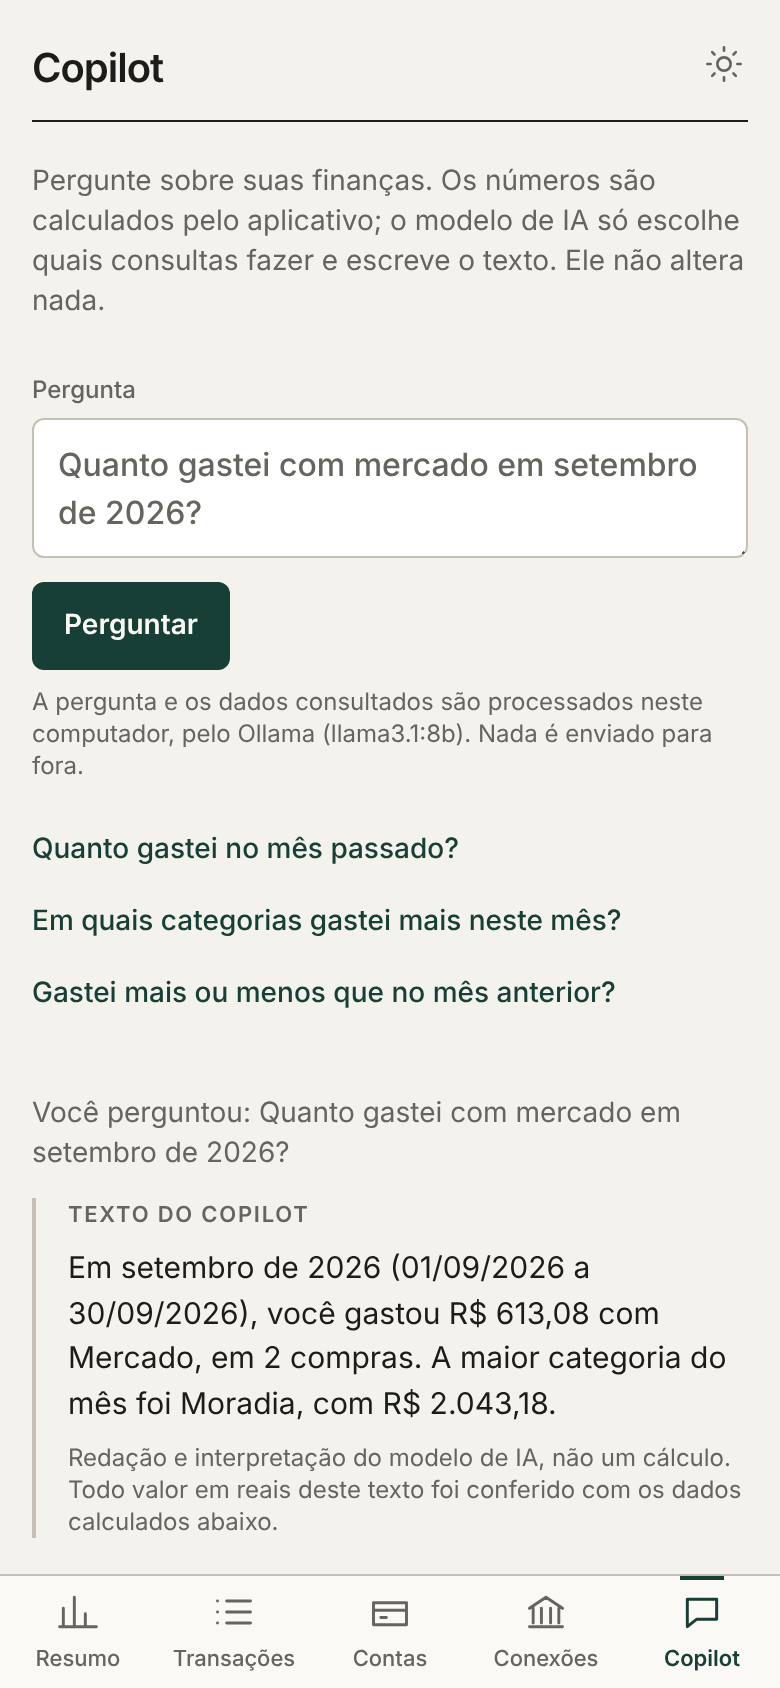
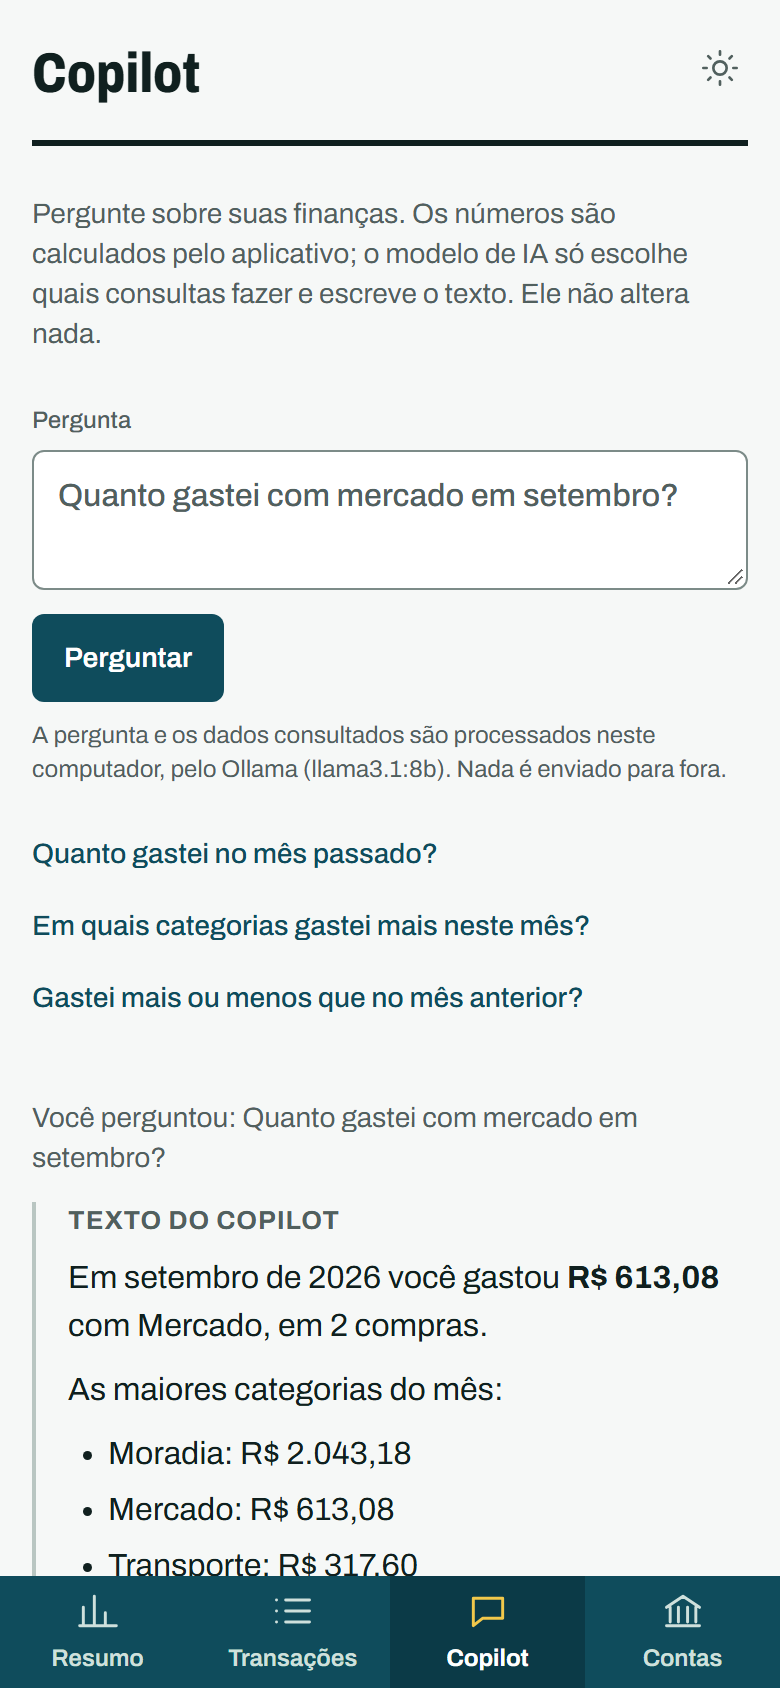
docs: refresh the README, guides and screenshots for the new interface
Screenshots are regenerated at 2x from simulated data and now include
the floating chat. The verification guide covers the month stepper, the
category list and the chat.

diff --git a/README.md b/README.md
@@ -18,7 +18,7 @@
 ![Tailwind CSS](https://img.shields.io/badge/Tailwind_CSS-06B6D4?logo=tailwindcss&logoColor=white)
 ![Ollama](https://img.shields.io/badge/Ollama-local-000000?logo=ollama&logoColor=white)
 
-<img src="docs/screenshots/hero.png" alt="Painel de resumo no desktop e a tela do Copilot no celular" width="100%">
+<img src="docs/screenshots/hero.png" alt="Resumo no desktop e o chat do Copilot no celular" width="100%">
 
 </div>
 
@@ -35,41 +35,42 @@ A decisão central do projeto é que **o modelo de linguagem nunca calcula dinhe
 | Área | O que faz |
 | --- | --- |
 | 🏦 **Open Finance** | Conexão pelo widget Pluggy Connect (conta MeuPluggy), importação paginada de contas e transações, deduplicação por id externo e histórico de sincronizações com falhas classificadas. |
-| 📊 **Resumo** | Gastos, receitas e gastos por categoria em qualquer período, comparação com o período anterior equivalente e projeção do gasto até o fim do mês. |
-| 🔎 **Transações** | Lista paginada com busca por descrição ou estabelecimento e filtros por conta, categoria e tipo. O período e os filtros ficam na URL. |
+| 📊 **Resumo** | Gasto do mês com a procedência do cálculo, receitas, categorias comparadas com o período anterior na mesma escala, observações por regras fixas e projeção do gasto até o fim do mês. A navegação é mês a mês, com outros intervalos a um clique. |
+| 🔎 **Transações** | Lista paginada com busca por descrição ou estabelecimento e filtros por conta, categoria e tipo. O período e os filtros ficam na URL, e cada categoria do Resumo leva à lista já filtrada. |
 | 🧾 **Contas** | Visão consolidada por instituição, com estado da última sincronização e contagem de transações. |
 | 💬 **Copilot** | Perguntas em linguagem natural, respostas com o período considerado, a fonte de cada cálculo e links para as transações que sustentam a resposta. |
+| 🦆 **Chat flutuante** | O pato no canto inferior direito abre a conversa com o Copilot em qualquer tela, usando o mesmo backend da tela Copilot. A conversa fica só na memória do navegador: continua ao trocar de tela e some ao recarregar a página. |
 | 💡 **Insights e auditoria** | Insights por regras fixas (sem LLM) e um relatório de qualidade dos dados, somente leitura, que aponta duplicatas, lacunas de sincronização e valores suspeitos. |
 | 🌓 **Web e PWA** | Interface responsiva com tema claro e escuro, instalável no iPhone pela tela de início. |
 
 ## Telas
 
-Todas as telas abaixo usam o dataset de demonstração, que tem dados fictícios.
+Todas as telas abaixo usam dados fictícios, servidos por uma API simulada só para as capturas.
 
 <table>
   <tr>
-    <td width="50%"><img src="docs/screenshots/dashboard-desktop.png" alt="Resumo do mês com gastos por categoria e comparação com o período anterior"><br><sub><b>Resumo</b>: gastos por categoria e comparação com o mês anterior</sub></td>
-    <td width="50%"><img src="docs/screenshots/copilot-desktop.png" alt="Copilot respondendo uma pergunta com os dados calculados abaixo"><br><sub><b>Copilot</b>: texto do modelo separado dos dados calculados pelo app</sub></td>
+    <td width="50%"><img src="docs/screenshots/dashboard-desktop.png" alt="Resumo do mês: gasto total, totais comparados, gastos por categoria e últimas transações"><br><sub><b>Resumo</b>: gasto do mês com a procedência do cálculo, categorias comparadas com o mês anterior na mesma escala</sub></td>
+    <td width="50%"><img src="docs/screenshots/chat-desktop.png" alt="Chat flutuante do Copilot aberto sobre o Resumo, com uma resposta e os dados calculados"><br><sub><b>Chat flutuante</b>: o pato abre a conversa com o Copilot em qualquer tela</sub></td>
   </tr>
   <tr>
-    <td><img src="docs/screenshots/transactions-desktop.png" alt="Lista de transações com busca e filtros"><br><sub><b>Transações</b>: busca, filtros e paginação</sub></td>
+    <td><img src="docs/screenshots/copilot-desktop.png" alt="Tela do Copilot com o texto do modelo separado dos dados calculados"><br><sub><b>Copilot</b>: texto do modelo separado dos dados calculados pelo app</sub></td>
+    <td><img src="docs/screenshots/transactions-desktop.png" alt="Lista de transações com navegação por mês, busca e filtros"><br><sub><b>Transações</b>: navegação por mês, busca, filtros e paginação</sub></td>
+  </tr>
+  <tr>
     <td><img src="docs/screenshots/transaction-detail-desktop.png" alt="Detalhe de uma transação"><br><sub><b>Detalhe</b>: cada transação tem rota própria</sub></td>
-  </tr>
-  <tr>
     <td><img src="docs/screenshots/accounts-desktop.png" alt="Contas agrupadas por instituição"><br><sub><b>Contas</b>: agrupadas por instituição</sub></td>
-    <td><img src="docs/screenshots/connections-desktop.png" alt="Tela de conexões Open Finance"><br><sub><b>Conexões</b>: conectar instituição e sincronizar de novo</sub></td>
   </tr>
   <tr>
+    <td><img src="docs/screenshots/connections-desktop.png" alt="Conexão e sincronização com o Open Finance"><br><sub><b>Conexão e sincronização</b>: conectar instituição e sincronizar de novo</sub></td>
     <td><img src="docs/screenshots/dashboard-desktop-dark.png" alt="Resumo no tema escuro"><br><sub><b>Tema escuro</b>: segue o sistema ou a escolha do usuário</sub></td>
-    <td><img src="docs/screenshots/copilot-desktop-dark.png" alt="Copilot no tema escuro"><br><sub><b>Copilot</b> no tema escuro</sub></td>
   </tr>
 </table>
 
 <p align="center">
   <img src="docs/screenshots/dashboard-mobile.png" alt="Resumo no celular" width="23%">
   <img src="docs/screenshots/transactions-mobile.png" alt="Transações no celular" width="23%">
-  <img src="docs/screenshots/accounts-mobile.png" alt="Contas no celular" width="23%">
-  <img src="docs/screenshots/copilot-mobile.png" alt="Copilot no celular" width="23%">
+  <img src="docs/screenshots/chat-mobile.png" alt="Chat do Copilot no celular" width="23%">
+  <img src="docs/screenshots/copilot-mobile.png" alt="Tela do Copilot no celular" width="23%">
 </p>
 
 ## Arquitetura
@@ -103,7 +104,7 @@ flowchart LR
 | --- | --- |
 | Backend | Python 3.12, FastAPI, Pydantic 2, SQLAlchemy 2, Alembic, httpx |
 | Banco | PostgreSQL 18, dinheiro em `NUMERIC(18,2)` |
-| Web | React 19, TypeScript strict, Vite, React Router, TanStack Query, Recharts, Tailwind CSS |
+| Web | React 19, TypeScript strict, Vite, React Router, TanStack Query, Tailwind CSS, fontes Red Hat servidas pelo próprio app |
 | IA | Ollama (padrão, local) ou API da Anthropic, atrás de uma interface `LLMProvider` |
 | Qualidade | pytest, Ruff, Vitest, Testing Library, MSW, ESLint, GitHub Actions |
 
@@ -134,7 +135,7 @@ sequenceDiagram
 - **Fato separado de interpretação.** Na tela, o texto do modelo e os dados calculados aparecem separados e rotulados.
 - **Tolerante a modelos pequenos.** O período é passado como uma string simples (`"2026-09"`, `"2025"`, `"previous_month"`, `"2026-03-01..2026-03-15"`), e valores de preenchimento como `""` ou `"None"` em campos opcionais são tratados como ausentes.
 - **O que vai para o modelo:** a pergunta, a data e os resultados das ferramentas chamadas. Nunca vão credenciais, tokens, ids da Pluggy ou nomes de contas e instituições. Perguntas, respostas e resultados não são registrados em log.
-- **Limites:** uma pergunta por requisição, sem histórico de conversa, e no máximo 6 rodadas do modelo por pergunta.
+- **Limites:** uma pergunta por requisição, sem histórico de conversa, e no máximo 6 rodadas do modelo por pergunta. O chat flutuante mostra as perguntas em sequência, mas cada uma é respondida de forma independente: o modelo não vê as anteriores.
 
 ## Rodando localmente
 
@@ -162,7 +163,7 @@ npm run dev                   # http://localhost:5173
 ollama pull llama3.1:8b
 ```
 
-O dataset de demonstração cobre abril a setembro de 2026. Para vê-lo, escolha **Personalizado** nesse intervalo.
+O dataset de demonstração cobre abril a setembro de 2026. Para vê-lo, volte mês a mês com o navegador de mês do cabeçalho ou abra **Outro período** e informe esse intervalo.
 
 Para subir tudo em containers: `docker compose up -d --build`. Os dados ficam no volume `postgres_data` e sobrevivem a `docker compose down`. Já `docker compose down -v` apaga o volume e todos os dados financeiros junto.
 
@@ -274,7 +275,7 @@ Detalhes:
 
 - Dinheiro é `Decimal` no Python, `NUMERIC(18,2)` no banco e string com duas casas no JSON. Nunca `float`.
 - `amount` é sempre não negativo. `debit` é despesa, `credit` é receita e `transfer` é movimentação interna, que não entra em gastos nem em receitas.
-- O cliente web formata dinheiro em BRL sem converter para `number`. A única conversão fica no gráfico, só para a escala.
+- O cliente web formata dinheiro em BRL sem converter para `number`. A única conversão fica em `web/src/lib/barScale.ts`, só para dimensionar barras; o resultado nunca é exibido nem somado.
 - A projeção do mês é uma estimativa. O gasto variável até a data é extrapolado pela média diária, e os gastos recorrentes entram pelo valor real. A resposta traz as premissas e os dias decorridos.
 - Um insight só é gerado para variações de pelo menos R$ 50,00 e, quando há valor anterior, de pelo menos 20%.
 

diff --git a/docs/verification.md b/docs/verification.md
@@ -84,8 +84,8 @@ npm run build
 
 Roteiro manual, com a API no ar e o dataset de demonstração aplicado num banco sem dados reais (`npm run dev` e `http://localhost:5173`):
 
-1. **Resumo:** selecione **Personalizado** de 01/09/2026 a 30/09/2026. Devem aparecer gastos de **R$ 3.649,94**, receitas de **R$ 8.150,00**, 21 transações e o gráfico por categoria com a lista de valores exatos abaixo.
-2. **Período:** passe por **Mês atual**, **Mês anterior** e **Últimos 3 meses** e confira as datas exibidas e a URL (`?period=…`). Um intervalo personalizado invertido deve bloquear o botão **Aplicar**.
+1. **Resumo:** volte com **Mês anterior** até **Setembro de 2026**. Devem aparecer gastos de **R$ 3.649,94** com a faixa de procedência logo abaixo (soma dos débitos, período e número de despesas), receitas de **R$ 8.150,00**, 21 transações e a lista única de categorias: barra sólida do período, barra hachurada do período anterior na mesma escala, valor exato e variação. Clicar numa categoria abre Transações já filtrada por ela.
+2. **Período:** use as setas **Mês anterior** e **Próximo mês** e confira o nome do mês e a URL (`?period=…` para o mês atual e o anterior, `?start=…&end=…` para os demais). **Próximo mês** fica desabilitado no mês atual e **Mês atual** volta a ele num clique. Em **Outro período**, **Últimos 3 meses** e um intervalo com datas ficam disponíveis; um intervalo invertido deve bloquear o botão **Aplicar**.
 3. **Transações:** com 01/04/2026 a 30/09/2026, a lista mostra "126 transações" e **Carregar mais** leva a 50, 100 e 126 linhas, sem repetição. Abra uma transação, copie a URL e abra-a em outra aba: o detalhe carrega direto.
 4. **Vazio:** escolha um período sem dados (por exemplo, janeiro de 2020) em Resumo e em Transações.
 5. **Erro:** pare o backend e recarregue: cada tela mostra o erro com **Tentar novamente**. Suba o backend e use o botão.
@@ -124,3 +124,12 @@ Requer `PLUGGY_CLIENT_ID` e `PLUGGY_CLIENT_SECRET` no `.env` do backend e uma co
 - O fluxo real do Pluggy Connect não é automatizado: nos testes o widget é mockado, e a conexão com uma instituição só é conferida manualmente.
 - O web ainda não tem service worker: não funciona offline.
 - A paginação usa offset, o que é adequado ao volume atual. Se o banco mudar durante a navegação, recarregue a lista.
+
+## Chat flutuante do Copilot
+
+1. Em qualquer tela, menos a do Copilot, o pato aparece no canto inferior direito (acima da barra de abas no celular). Com o teclado, ele recebe foco e abre com Enter.
+2. Clique no pato: o painel sobe com o cabeçalho "Finance Copilot / Seu assistente financeiro" e o cursor vai para o campo de mensagem. A linha acima do campo diz para onde a pergunta e os dados vão (modelo local ou serviço externo).
+3. Envie "Quanto gastei no mês passado?" com Enter (Shift+Enter quebra a linha). Enquanto a resposta é gerada aparece "Consultando seus dados…" e o botão vira **Cancelar**. A resposta vem à esquerda, ao lado do pato, com "Dados calculados pelo aplicativo" recolhido logo abaixo.
+4. Recolha o painel, vá para outra tela e abra de novo: a conversa continua lá. Recarregue a página: a conversa some, porque nada é gravado no navegador.
+5. Com o backend sem Copilot configurado, o painel avisa e o campo fica desabilitado. Com o Ollama fechado, a mensagem de erro aparece na conversa com **Tentar novamente**.
+6. No celular o painel ocupa quase toda a tela; ao abrir o teclado, o campo de mensagem deve continuar visível. Tocar fora do painel ou na seta do cabeçalho recolhe.

diff --git a/docs/vision.md b/docs/vision.md
@@ -166,7 +166,7 @@ Objetivo:
 
 ## MVP 0.6 — Insights proativos
 
-Entregue: endpoint `GET /analytics/insights`, com regras determinísticas sobre a comparação de períodos (sem LLM). Falta a exibição no cliente web.
+Entregue: endpoint `GET /analytics/insights`, com regras determinísticas sobre a comparação de períodos (sem LLM). O cliente web mostra até três deles no Resumo, em frases montadas a partir dos valores do backend.
 
 Possíveis exemplos:
 
@@ -185,7 +185,7 @@ A aplicação seguirá inicialmente um modelo de **monólito modular**.
 ```text
                          ┌──────────────────┐
                          │  Navegador / PWA │
-                         │ React + Recharts │
+                         │ React + Tailwind │
                          └────────┬─────────┘
                                   │
                                 HTTPS
@@ -229,7 +229,6 @@ A aplicação seguirá inicialmente um modelo de **monólito modular**.
 - Vite
 - React Router
 - TanStack Query
-- Recharts
 - Tailwind CSS
 - ESLint
 - Vitest / Testing Library / MSW
